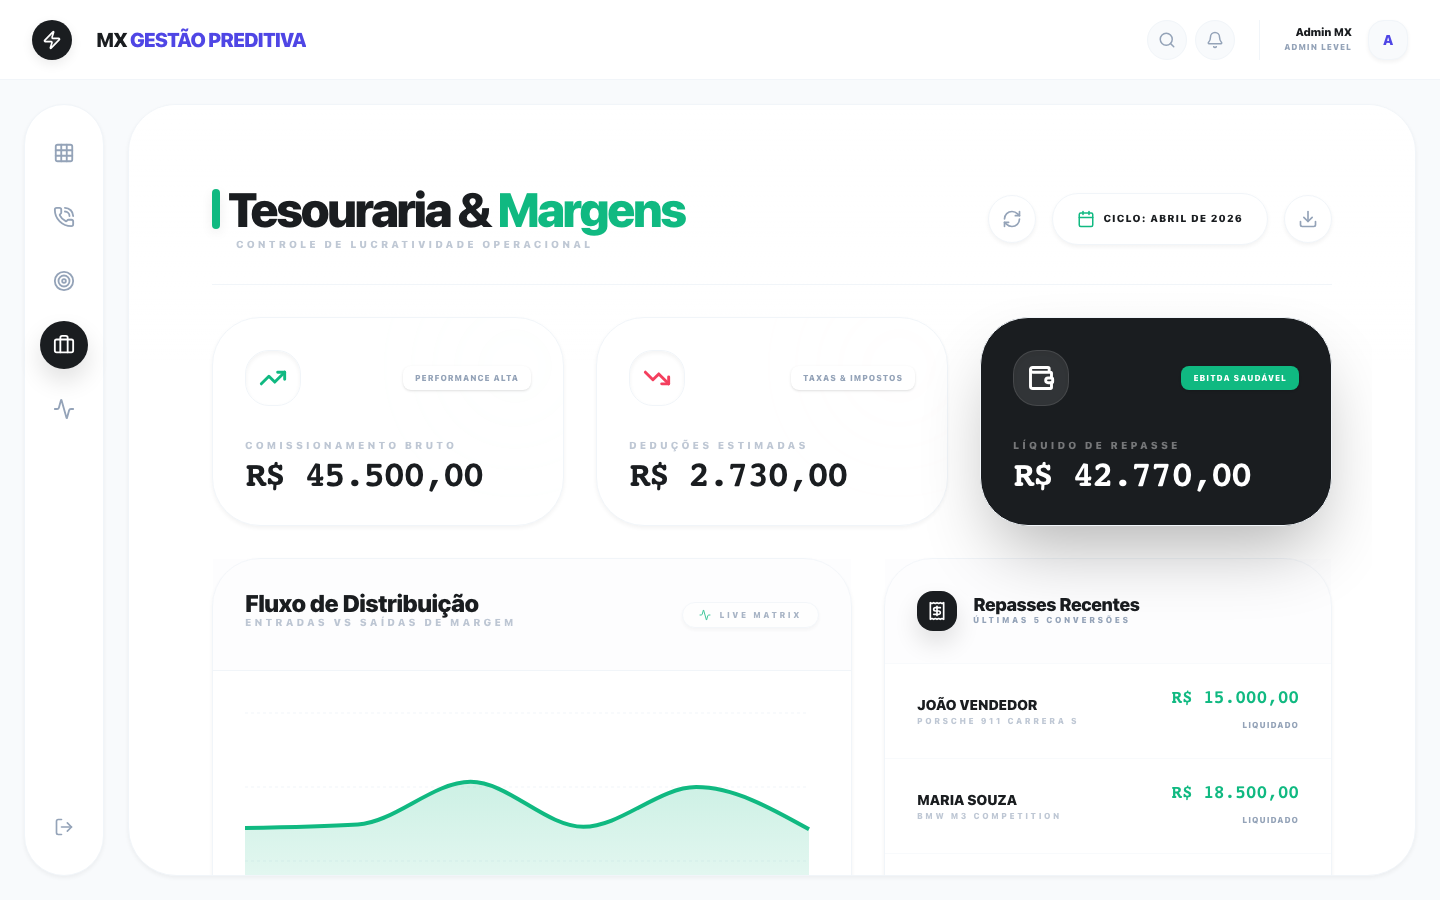
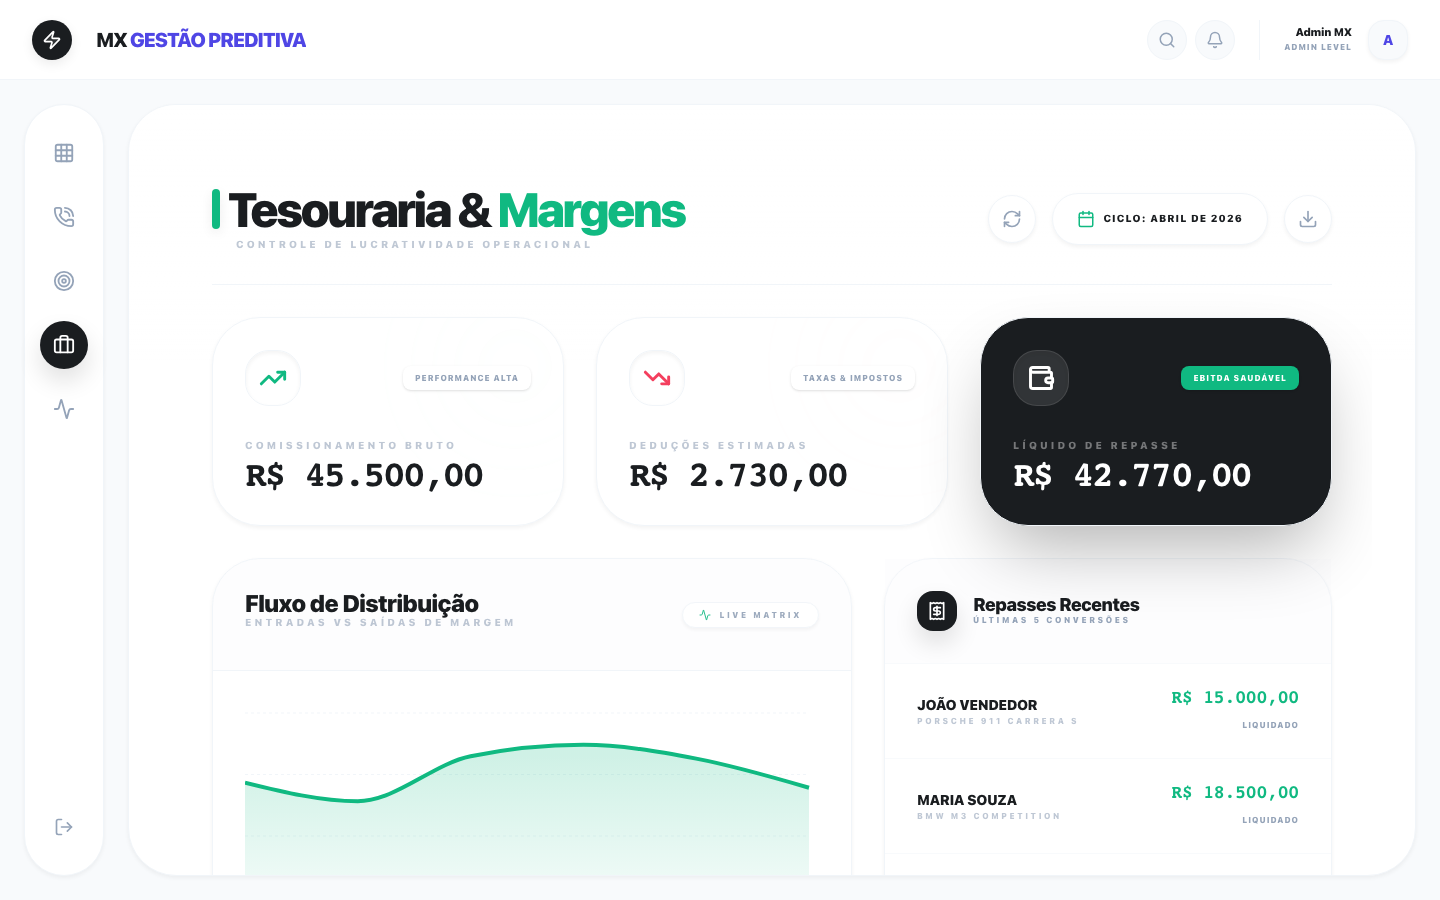
fix: explicit height for charts to prevent clipping and sizing errors

Changed region(s): [[0.1562, 0.8089, 0.5625, 0.9333]]

diff --git a/src/pages/Financeiro.tsx b/src/pages/Financeiro.tsx
@@ -82,9 +82,9 @@ export default function Financeiro() {
             </div>
 
             <div className="grid grid-cols-1 lg:grid-cols-12 gap-mx-lg shrink-0">
-                <div className="lg:col-span-7"><Card className="h-full overflow-hidden"><CardHeader className="flex-row items-center justify-between"><div><CardTitle>Fluxo de Distribuição</CardTitle><CardDescription>Entradas vs Saídas de Margem</CardDescription></div><div className="flex items-center gap-2 bg-white border border-border-default px-mx-sm py-1.5 rounded-mx-md shadow-mx-sm mx-text-caption !text-[8px] uppercase animate-pulse"><Activity size={12} className="text-status-success" /> Live Matrix</div></CardHeader><div className="p-mx-lg" style={{ height: '350px', minHeight: '350px' }}>
-                    <ResponsiveContainer width="100%" height="100%">
-                        <AreaChart data={fluxData} margin={{ top: 10, right: 10, left: 0, bottom: 0 }}>
+                <div className="lg:col-span-7"><Card className="h-full overflow-hidden"><CardHeader className="flex-row items-center justify-between"><div><CardTitle>Fluxo de Distribuição</CardTitle><CardDescription>Entradas vs Saídas de Margem</CardDescription></div><div className="flex items-center gap-2 bg-white border border-border-default px-mx-sm py-1.5 rounded-mx-md shadow-mx-sm mx-text-caption !text-[8px] uppercase animate-pulse"><Activity size={12} className="text-status-success" /> Live Matrix</div></CardHeader><div className="p-mx-lg flex items-center justify-center min-h-[350px]">
+                    <ResponsiveContainer width="100%" height={300}>
+                        <AreaChart data={fluxData} margin={{ top: 20, right: 20, left: 0, bottom: 0 }}>
                             <defs><linearGradient id="colorEntrada" x1="0" y1="0" x2="0" y2="1"><stop offset="5%" stopColor="#10b981" stopOpacity={0.2} /><stop offset="95%" stopColor="#10b981" stopOpacity={0} /></linearGradient></defs>
                             <Tooltip contentStyle={{ backgroundColor: '#1A1D20', borderRadius: '1rem', border: 'none', color: '#fff', fontSize: '10px', fontWeight: 800 }} />
                             <CartesianGrid strokeDasharray="3 3" vertical={false} stroke="#f1f5f9" />

diff --git a/src/pages/SalesPerformance.tsx b/src/pages/SalesPerformance.tsx
@@ -64,9 +64,9 @@ export default function SalesPerformance() {
             </div>
 
             <div className="grid grid-cols-1 lg:grid-cols-12 gap-mx-lg shrink-0 pb-mx-3xl">
-                <div className="lg:col-span-8"><Card className="h-full"><CardHeader className="flex-row items-center justify-between"><div><CardTitle>Evolução de Sellout</CardTitle><CardDescription>Volume Consolidado Mensal</CardDescription></div><Badge className="bg-brand-primary-surface text-brand-primary border-none">LIVE MATRIX</Badge></CardHeader><div className="p-mx-lg h-[420px]">
-                    <ResponsiveContainer width="100%" height="100%">
-                        <AreaChart data={mockYearlySales} margin={{ top: 10, right: 10, left: 0, bottom: 0 }}>
+                <div className="lg:col-span-8"><Card className="h-full"><CardHeader className="flex-row items-center justify-between"><div><CardTitle>Evolução de Sellout</CardTitle><CardDescription>Volume Consolidado Mensal</CardDescription></div><Badge className="bg-brand-primary-surface text-brand-primary border-none">LIVE MATRIX</Badge></CardHeader><div className="p-mx-lg flex items-center justify-center min-h-[420px]">
+                    <ResponsiveContainer width="100%" height={380}>
+                        <AreaChart data={mockYearlySales} margin={{ top: 20, right: 30, left: 0, bottom: 0 }}>
                             <defs><linearGradient id="colorSales" x1="0" y1="0" x2="0" y2="1"><stop offset="5%" stopColor="#4f46e5" stopOpacity={0.2} /><stop offset="95%" stopColor="#4f46e5" stopOpacity={0} /></linearGradient></defs>
                             <Tooltip contentStyle={{ backgroundColor: '#1A1D20', borderRadius: '1rem', border: 'none', color: '#fff', fontSize: '10px', fontWeight: 800 }} />
                             <CartesianGrid strokeDasharray="3 3" vertical={false} stroke="#f1f5f9" />

diff --git a/src/pages/SellerPerformance.tsx b/src/pages/SellerPerformance.tsx
@@ -77,9 +77,9 @@ export default function SellerPerformance() {
             </div>
 
             <div className="grid grid-cols-1 lg:grid-cols-2 gap-mx-lg shrink-0">
-                <Card><CardHeader className="flex-row items-center justify-between"><div><CardTitle className="!text-lg">Ritmo Operacional</CardTitle><CardDescription>Realizado vs Meta Projetada</CardDescription></div><TrendingUp size={24} className="text-brand-primary" /></CardHeader><div className="p-mx-lg h-[380px]">
-                    <ResponsiveContainer width="100%" height="100%">
-                        <AreaChart data={monthlyData} margin={{ top: 10, right: 10, left: -20, bottom: 0 }}>
+                <Card><CardHeader className="flex-row items-center justify-between"><div><CardTitle className="!text-lg">Ritmo Operacional</CardTitle><CardDescription>Realizado vs Meta Projetada</CardDescription></div><TrendingUp size={24} className="text-brand-primary" /></CardHeader><div className="p-mx-lg flex items-center justify-center min-h-[380px]">
+                    <ResponsiveContainer width="100%" height={340}>
+                        <AreaChart data={monthlyData} margin={{ top: 20, right: 10, left: -20, bottom: 0 }}>
                             <defs><linearGradient id="colorSales" x1="0" y1="0" x2="0" y2="1"><stop offset="5%" stopColor="#4f46e5" stopOpacity={0.2} /><stop offset="95%" stopColor="#4f46e5" stopOpacity={0} /></linearGradient></defs>
                             <XAxis dataKey="month" axisLine={false} tickLine={false} tick={{ fontWeight: 800, fontSize: 10, fill: '#94a3b8' }} />
                             <YAxis axisLine={false} tickLine={false} tick={{ fontWeight: 800, fontSize: 10, fill: '#94a3b8' }} />
